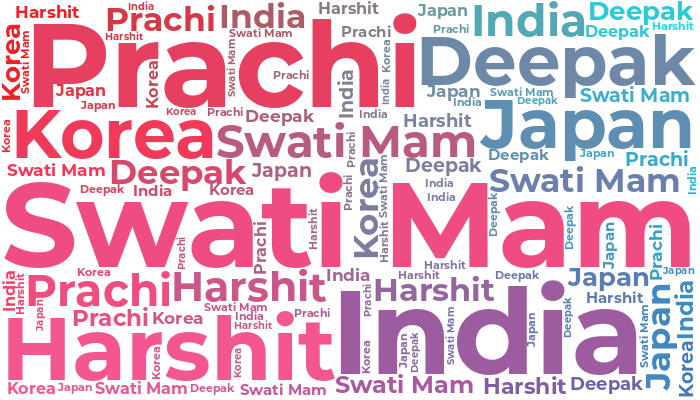
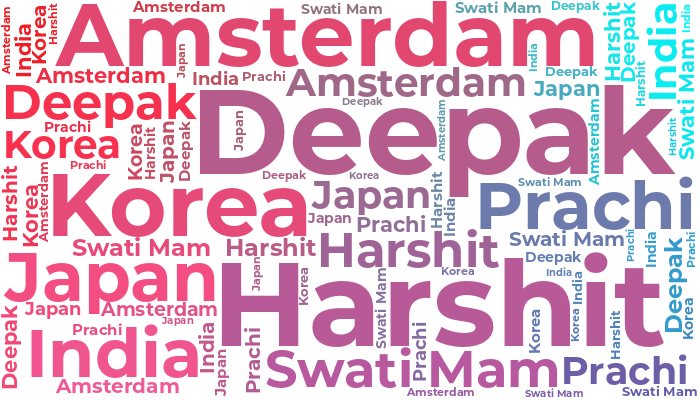
@Prachiofficial added 'Amsterdam' to the Word Cloud

diff --git a/README.md b/README.md
@@ -39,9 +39,9 @@ A new word cloud will be automatically generated when you [add your own word](ht
 
 <img src="https://raw.githubusercontent.com/Prachiofficial/Prachiofficial/master/wordcloud/wordcloud.png" alt="WordCloud" width="100%">
 
-![Word Cloud Words Badge](https://img.shields.io/badge/Words%20in%20this%20Cloud-10-informational?labelColor=7D898B)
+![Word Cloud Words Badge](https://img.shields.io/badge/Words%20in%20this%20Cloud-11-informational?labelColor=7D898B)
 ![Word Cloud Contributors Badge](https://img.shields.io/badge/Contributors%20this%20Cloud-2-blueviolet?labelColor=7D898B)
 
-[![Github Badge](https://img.shields.io/badge/-@HarshitKumar9030-24292e?style=flat&logo=Github&logoColor=white&link=https://github.com/HarshitKumar9030)](https://github.com/HarshitKumar9030) [![Github Badge](https://img.shields.io/badge/-@Prachiofficial-24292e?style=flat&logo=Github&logoColor=white&link=https://github.com/Prachiofficial)](https://github.com/Prachiofficial) 
+[![Github Badge](https://img.shields.io/badge/-@Prachiofficial-24292e?style=flat&logo=Github&logoColor=white&link=https://github.com/Prachiofficial)](https://github.com/Prachiofficial) [![Github Badge](https://img.shields.io/badge/-@HarshitKumar9030-24292e?style=flat&logo=Github&logoColor=white&link=https://github.com/HarshitKumar9030)](https://github.com/HarshitKumar9030) 
 
  Check out the [previous word cloud](https://github.com/Prachiofficial/Prachiofficial/blob/master/previous_clouds/previous_clouds.md#what-are-you-looking-forward-to-in-2021-tada-sunglasses-confetti_ball) to see our community's **What are you looking forward to in 2021? :tada: :sunglasses: :confetti_ball:**
